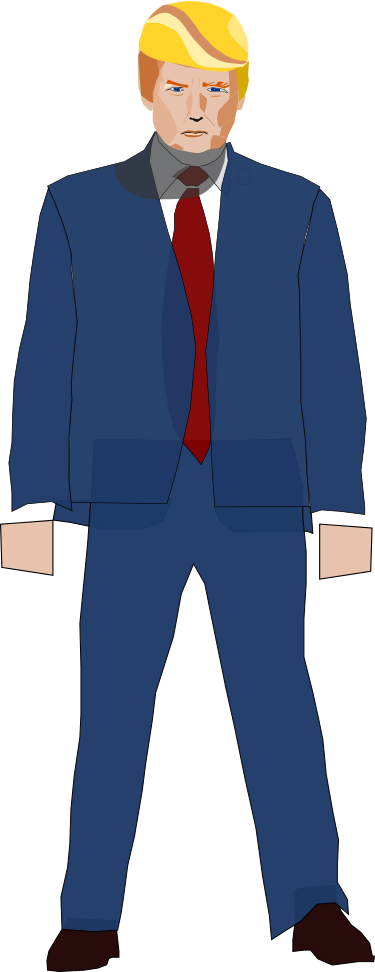
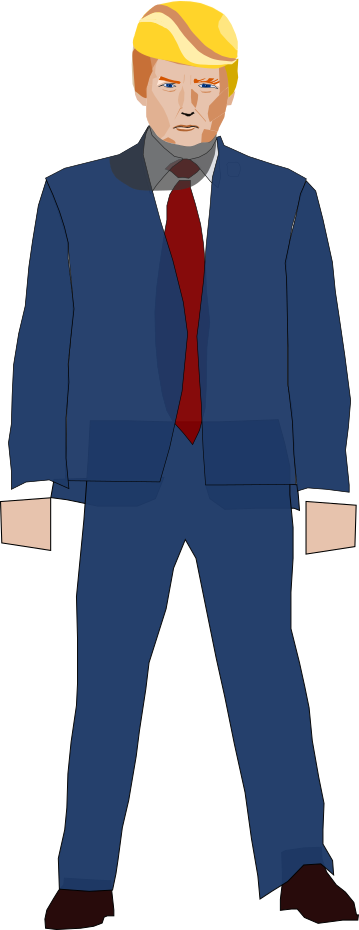
added date and winner announcement via mainanim component

diff --git a/imports/ui/pages/homepage.jsx b/imports/ui/pages/homepage.jsx
@@ -8,6 +8,7 @@ import { Navbar } from 'react-bootstrap'
 import { Button } from 'react-bootstrap'
 import { Modal } from 'react-bootstrap'
 
+
 import { Timeline } from 'react-twitter-widgets'
 import { FacebookButton, FacebookCount } from "react-social"
 import { TwitterButton, RedditButton, GooglePlusButton, TumblrButton } from 'react-social'
@@ -20,13 +21,14 @@ import Ubar from '../components/ubar.jsx'
 import Wline from '../components/wline.jsx'
 import Wbar from '../components/wbar.jsx'
 import Imod from '../components/intromodal.jsx'
+import Mainanim from '../components/mainanim.jsx'
 
 //Data
 //import { LineData } from '../../../both/collections/tweets.js'
 
 let url = "https://github.com";
 
-
+var today = moment().format('MMMM Do YYYY');
 
 
 
@@ -50,8 +52,9 @@ export const Homepage = (props) =>
 				<div className="col-md-6" id="display">
 					<div className="anim striped">
 						<p></p>
-						<img src={"../../images/TrumpM.png"} alt="Trump"/>
-						<img src={"../../images/RumpM.png"} alt="Rump"/>
+						<Mainanim votewinner={props.votewinner}/>
+						{/*<img className="mainimg" src={"../../images/TrumpM.png"} alt="Trump"/>
+						<img className="mainimg" src={"../../images/RumpM.png"} alt="Rump"/>*/}
 					</div>
 					<Vote />
 				</div>

diff --git a/imports/ui/containers/app_container.js b/imports/ui/containers/app_container.js
@@ -12,6 +12,8 @@ var wtrumps = 0;
 var wrumps = 0;
 var bardat = [];
 var wbardat = [];
+var votewinner = 0; // votewinner is 0 if trump and 1 if rump
+
 /*
 const linedat = LineData.find().fetch();
 for (i=0; i<linedat.length; i++) {
@@ -33,6 +35,8 @@ export default createContainer(() => {
 	rumps = 0;
 	wtrumps = 0;
 	wrumps = 0;
+	//trumpWin = 0;
+	//rumpWin = 0;
 
 	for (i=0; i<linedat.length; i++) {
 			trumps = trumps + linedat[i].trumps;
@@ -48,6 +52,22 @@ export default createContainer(() => {
 			//console.log("totalR =" + rumps);
 		};
 
+	if (trumps+wtrumps > rumps+wrumps) {
+		console.log("Trump wins!");
+		//trumpWin = 1;
+		//rumpWin = 0;
+		votewinner = 0;
+
+		//console.log(trumpWin, rumpWin);
+	}else{
+		console.log("Rump wins!");
+		//trumpWin = 0;
+		//rumpWin = 1;
+		votewinner = 1;
+		//console.log(trumpWin, rumpWin);
+
+	}	
+
 	return {
 		//loaded,
 		//linedat:loaded?LineData.find().fetch():[], 
@@ -57,7 +77,10 @@ export default createContainer(() => {
 		bardat: [{qty: trumps, xlabel: "USATrumps"},
 				  {qty: rumps, xlabel: "USARumps"}],
 		wbardat: [{qty: wtrumps, xlabel: "USATrumps"},
-				   {qty: wrumps, xlabel: "USARumps"}],		  
+				   {qty: wrumps, xlabel: "USARumps"}],
+		votewinner: votewinner,		   
+
+
 	};
 		
 

diff --git a/imports/ui/components/mainanim.jsx b/imports/ui/components/mainanim.jsx
@@ -1,0 +1,40 @@
+import React, { Component } from 'react';
+
+import { moment } from 'meteor/momentjs:moment'
+
+var today = moment().format('MMMM Do YYYY');
+var winner = "";
+/*
+	So what I want to do here is total both the US and world Trumps and the US and world Rumps and
+	depending on which is greater initiate a different animation.
+	I could do this by assigning a className but There seems to be a timing question. The animation 
+	needs to run after the modal is done, and only once. (meteor call?) This involves getting
+	data from the app container where the sums trumps/wtrumps and rumps/wrumps already exist.
+	So, I need a toggle there based on their values. 
+*/
+
+Mainanim = React.createClass({
+componentDidMount() {	
+	//console.log("votewinner = ");
+	//console.log(this.props.votewinner);
+	if (this.props.votewinner == 1) {
+		winner = "Rump";
+	}else{
+		winner = "Trump";
+	}
+
+},	
+
+	render() {
+		return (
+			<div>
+				<h3 className="animtext">Today {today}</h3>
+				<h4>{winner}</h4>
+				<img className="mainimg" src={"../../images/TrumpM.png"} alt="Trump"/>
+				<img className="mainimg" src={"../../images/RumpM.png"} alt="Rump"/>
+
+			</div>
+		)
+	}
+})
+module.exports = Mainanim;

diff --git a/imports/ui/pages/trumppage.jsx b/imports/ui/pages/trumppage.jsx
@@ -14,7 +14,7 @@ export const Trumppage = (props) =>
 <div className="container-fluid" id="theT">
 <div className="container-fluid secondary">
   <h1>Trump!</h1>
-  <img className="pagegif" id="trumpgif" src={"../../images/trumpmount14.gif"} alt="trump is awesome, makes money and builds beutiful buildings"/>
+  <img className="pagegif" id="trumpgif" src={"../../images/trumpmount14.gif"} alt="trump is awesome, makes money and builds beautiful buildings"/>
   <ul id="trumplist">
     <li>I've had twelve years to think about it. And if I had it to do over again, I would have grabbed the phaser and pointed
    it at you instead of them. I'll alert the crew. Could someone survive inside a transporter buffer for 75 years? Earl Grey tea,

diff --git a/client/main.css b/client/main.css
@@ -187,14 +187,28 @@ navbar {
 }
 
 .anim {
-	height: 90%;
+	height: 88%;
+	/*height: 90%;*/
 	/*width: 100%;*/
 }
 
 .anim img {
-	height: 200px;
-	width: 200px;
+	height: 234px;
+	width: 90px;
 }
+
+/*---------------------------- Main Images and Animation ----------------------------*/
+.mainimg {
+	width: 80px;
+	height: 208px;
+}
+
+.animtext {
+	color: white;
+}
+/*---------------------------------------------------------------------------------*/
+
+
 /*----------------------------- VOTE ----------------------------------------- */
 .vote {
 	height: 9%;
@@ -603,7 +617,9 @@ navbar {
 .pagegif {
 	float: left;
 }
-
+#trumpgif {
+	width: 
+}
 
 
 
